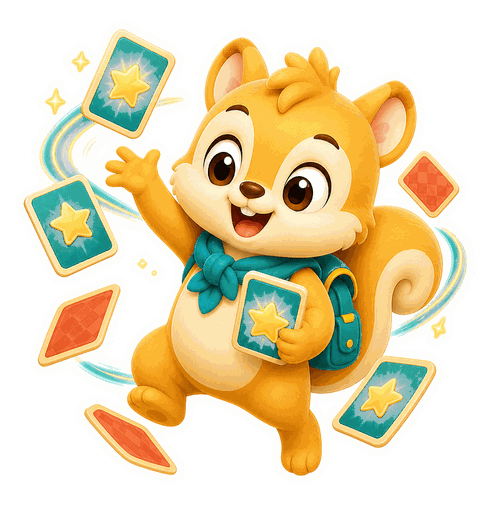
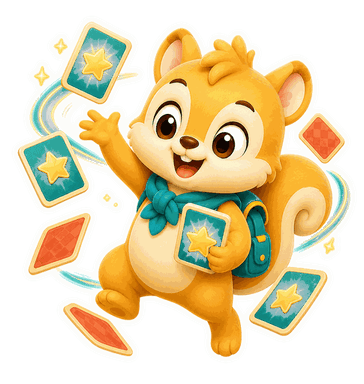
Tiếp tục improve image

diff --git a/docs/project_spec.md b/docs/project_spec.md
@@ -840,6 +840,11 @@ cùng file.
 - Current/next scene image prefetch dùng React Native `Image.prefetch`.
 - App UI icons: PNG bundle nằm trong `src/assets/icons/app-ui/`, import qua
   `AppUiIcon`, tách khỏi lesson WebP generation và R2 upload.
+- Bundled UI art như `src/assets/images/app-logo.png`, Sungy mascot poses/source poster,
+  `src/assets/icons/premium/` và `src/assets/stickers/achievements/` được optimize local bằng
+  `npm run assets:optimize-ui-art`; script ghi paletted PNG, giới hạn max edge theo nhóm asset và
+  tạo backup gitignored dưới `src/assets/source/ui-art-original/` khi chưa có. Các asset này vẫn
+  là local bundled UI art, không thuộc R2 pipeline.
 - Kid-facing S-Kids icons, gồm theme, scene và lesson milestone icons, nằm trong
   `src/assets/icons/skids/`, import qua static registry và cũng nằm ngoài lesson WebP/R2 pipeline.
   Các icon này được optimize local bằng `npm run assets:optimize-ui-icons` để giữ bundled app size

diff --git a/docs/asset-pipeline.md b/docs/asset-pipeline.md
@@ -9,6 +9,13 @@
 - Keep bundled UI icons and mascot images outside this lesson pipeline.
 - Bundled app UI PNG icons live in `src/assets/icons/app-ui/`; they are imported
   with local `require(...)` calls and are not uploaded to R2.
+- Bundled app UI art, including `src/assets/images/app-logo.png`, Sungy
+  mascot poses/source poster, `src/assets/icons/premium/`, and
+  `src/assets/stickers/achievements/`, is optimized for app size with
+  `npm run assets:optimize-ui-art`. The script writes paletted PNGs, caps
+  display assets to their configured max edge, and keeps a gitignored local
+  backup under `src/assets/source/ui-art-original/` when absent. These assets
+  remain local bundled UI art and are not uploaded to R2.
 - Bundled S-Kids UI PNG icons live in `src/assets/icons/skids/`; keep them
   optimized for app size with `npm run assets:optimize-ui-icons`. The script
   resizes them to a 320 px max edge, writes paletted PNGs, and keeps a
